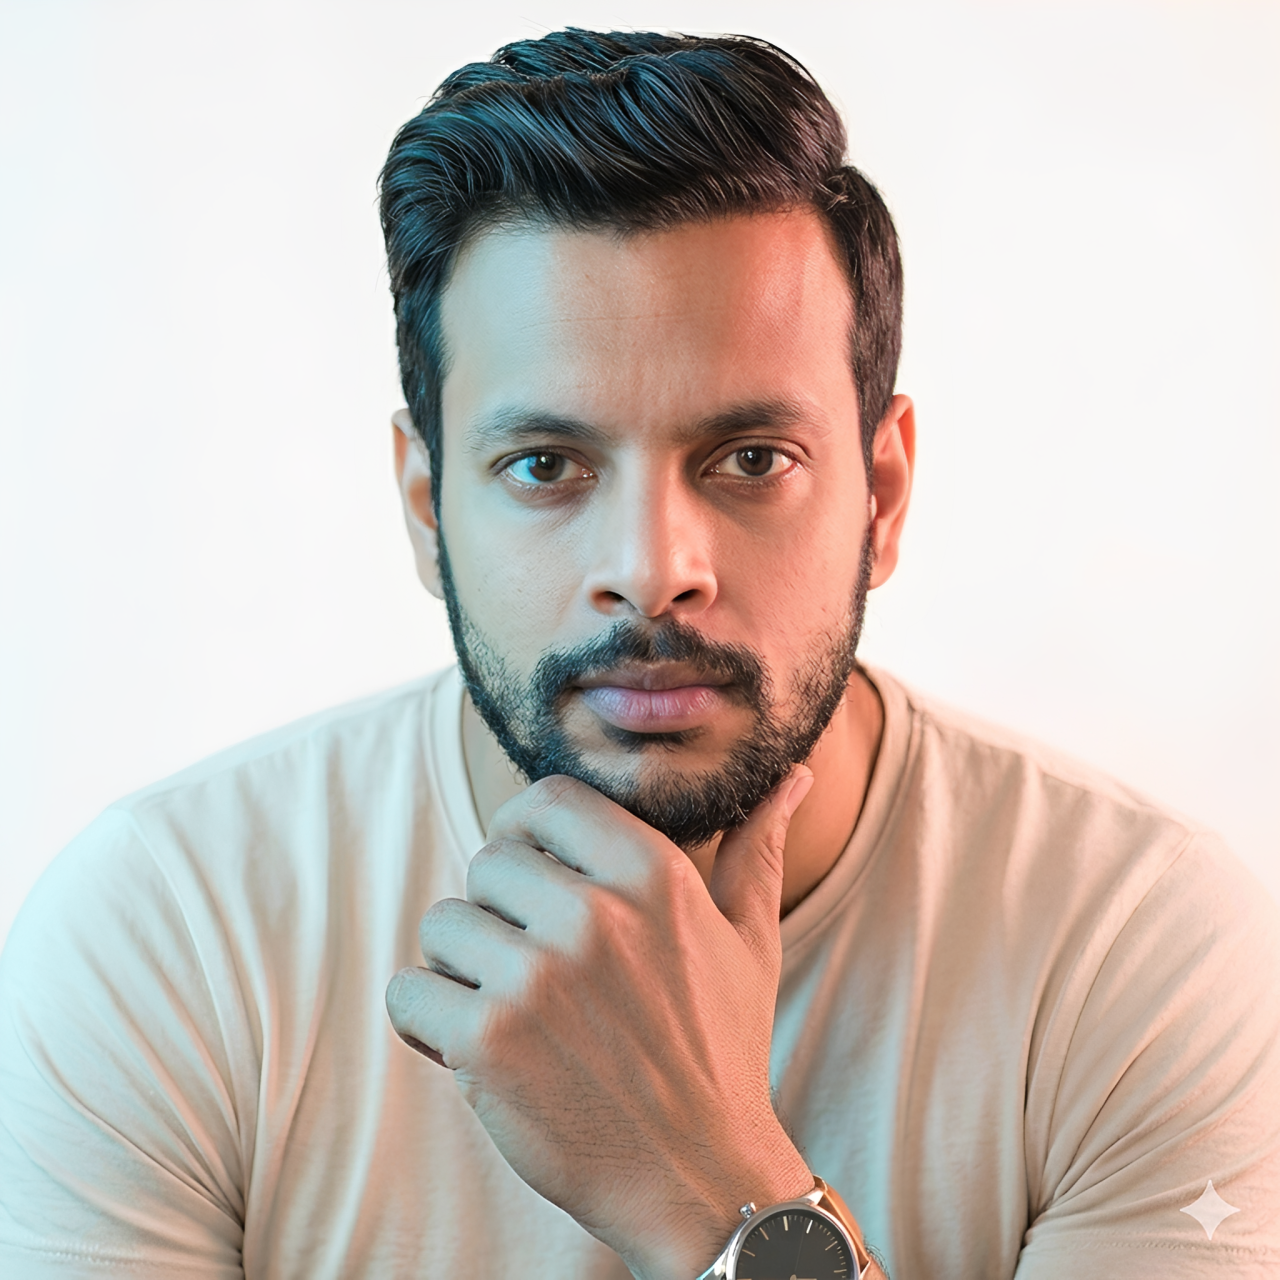
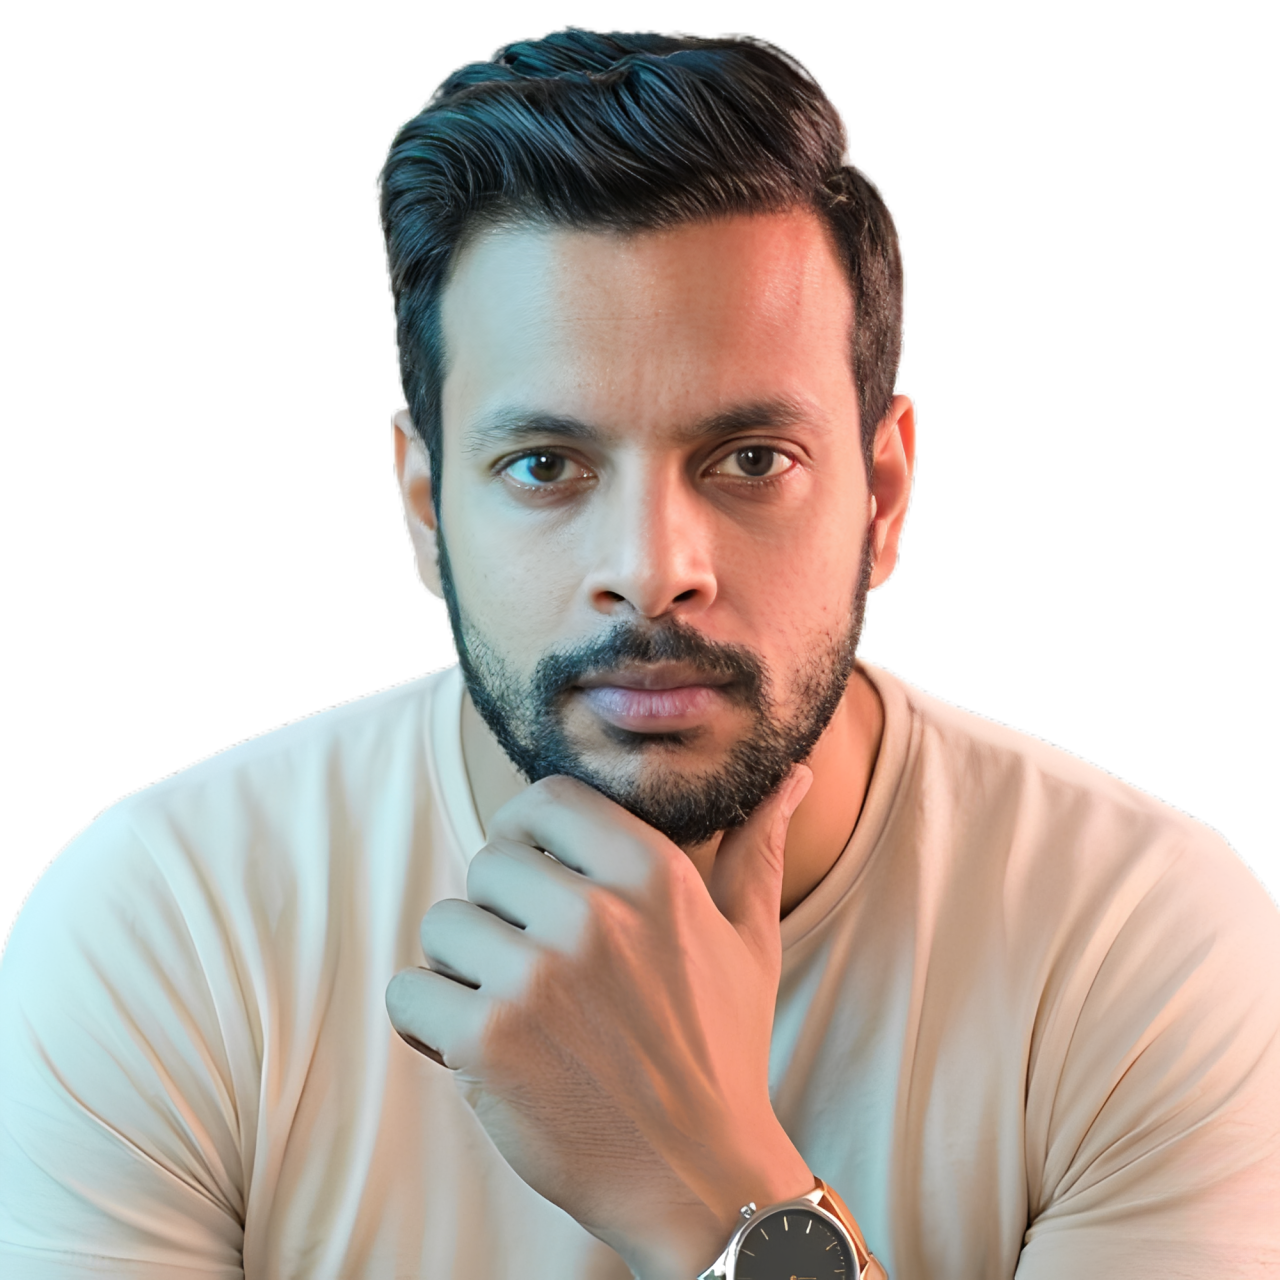
Hero section added to place background effect

diff --git a/src/app/components/Hero.tsx b/src/app/components/Hero.tsx
@@ -1,7 +1,9 @@
-import React, { useEffect, useState } from "react";
+import React, { useEffect, useRef, useState } from "react";
 import { motion } from "motion/react";
 import { SocialLinks } from "./SocialLinks";
 import profileImg from "../../imports/profile.png";
+import profileLightImg from "../../imports/profileLight.png";
+import { useTheme } from "./ThemeContext";
 import { ImageWithFallback } from "./figma/ImageWithFallback";
 
 const Typewriter = ({
@@ -20,7 +22,6 @@ const Typewriter = ({
     let timer: NodeJS.Timeout;
 
     if (!isTyping) {
-      // Wait for the repeat interval, then reset to type again
       timer = setTimeout(() => {
         setDisplayText("");
         setIsTyping(true);
@@ -29,7 +30,6 @@ const Typewriter = ({
     }
 
     let i = 0;
-    // Initial delay before starting typing
     const startDelay = setTimeout(() => {
       timer = setInterval(() => {
         if (i < text.length) {
@@ -40,7 +40,7 @@ const Typewriter = ({
           setIsTyping(false);
         }
       }, 100);
-    }, delay * 1000); // converting delay to ms
+    }, delay * 1000);
 
     return () => {
       clearTimeout(startDelay);
@@ -65,14 +65,101 @@ const Typewriter = ({
 };
 
 export function Hero() {
+  const { isDark } = useTheme();
+  const heroImage = isDark ? profileImg : profileLightImg;
+  const canvasRef = useRef<HTMLCanvasElement | null>(null);
+  const appRef = useRef<any>(null);
+
+  useEffect(() => {
+    let mounted = true;
+
+    const randomColors = (count: number) =>
+      new Array(count).fill(0).map(
+        () =>
+          "#" +
+          Math.floor(Math.random() * 16777215)
+            .toString(16)
+            .padStart(6, "0"),
+      );
+
+    const handleBodyClick = () => {
+      const app = appRef.current;
+      if (!app?.tubes) return;
+
+      app.tubes.setColors(randomColors(3));
+      app.tubes.setLightsColors(randomColors(4));
+    };
+
+    const effectOptions = isDark
+      ? {
+          colors: ["#f967fb", "#53bc28", "#6958d5"],
+          lights: {
+            intensity: 200,
+            colors: ["#83f36e", "#fe8a2e", "#ff008a", "#60aed5"],
+          },
+          minRadius: 0.007,
+          maxRadius: 0.01,
+        }
+      : {
+          colors: ["#fae8c8", "#9dd8ff", "#d8b4fe"],
+          lights: {
+            intensity: 120,
+            colors: ["#fef3c7", "#bfdbfe", "#ede9fe", "#f8fafc"],
+          },
+          minRadius: 0.007,
+          maxRadius: 0.01,
+        };
+
+    async function initEffect() {
+      if (!canvasRef.current) return;
+
+      try {
+        const module =
+          await import(
+            "https://cdn.jsdelivr.net/npm/threejs-components@0.0.19/build/cursors/tubes1.min.js"
+          );
+        const TubesCursor = (module as any).default ?? (module as any);
+
+        if (!mounted || !TubesCursor) return;
+
+        const existingApp = appRef.current;
+        if (existingApp?.dispose) existingApp.dispose();
+        if (existingApp?.destroy) existingApp.destroy();
+
+        appRef.current = TubesCursor(canvasRef.current, {
+          tubes: effectOptions,
+        });
+
+        document.body.addEventListener("click", handleBodyClick);
+      } catch (error) {
+        console.error("Failed to load TubesCursor effect", error);
+      }
+    }
+
+    initEffect();
+
+    return () => {
+      mounted = false;
+      document.body.removeEventListener("click", handleBodyClick);
+
+      const app = appRef.current;
+      if (app?.dispose) app.dispose();
+      if (app?.destroy) app.destroy();
+    };
+  }, [isDark]);
+
   return (
     <section
       id="home"
-      className="min-h-screen flex items-center pt-16 bg-transparent transition-colors relative z-10"
+      className="relative min-h-screen flex items-center pt-16 bg-gray-50 dark:bg-gray-950 transition-colors overflow-hidden"
     >
-      <div className="max-w-7xl mx-auto px-4 sm:px-6 lg:px-8 w-full">
+      <canvas
+        ref={canvasRef}
+        className="absolute inset-0 w-full h-full pointer-events-none"
+      />
+
+      <div className="relative z-10 max-w-7xl mx-auto px-4 sm:px-6 lg:px-8 w-full">
         <div className="flex flex-col-reverse lg:flex-row items-center gap-12">
-          {/* Text Content */}
           <div className="flex-1 space-y-8 text-center lg:text-left">
             <motion.div
               initial={{ opacity: 0, y: 20 }}
@@ -114,7 +201,7 @@ export function Hero() {
             >
               <a
                 href="#projects"
-                className="px-8 py-3 rounded-full bg-blue-600 text-white font-medium hover:bg-blue-700 transition-colors shadow-lg shadow-blue-500/30"
+                className="px-8 py-3 rounded-full bg-gradient-to-r from-purple-400 to-pink-500 text-white font-medium hover:from-purple-700 hover:via-pink-600 hover:to-pink-500 transition transform hover:scale-105 shadow-lg shadow-pink-500/30 focus:outline-none focus:ring-4 focus:ring-pink-300/30 dark:focus:ring-pink-700/40"
               >
                 View Work
               </a>
@@ -128,26 +215,23 @@ export function Hero() {
             </motion.div>
           </div>
 
-          {/* Image */}
           <motion.div
             initial={{ opacity: 0, scale: 0.8 }}
             animate={{ opacity: 1, scale: 1 }}
             transition={{ duration: 0.8, ease: "easeOut" }}
             className="flex-1 flex justify-center lg:justify-end lg:items-end relative"
           >
-           <motion.div
-  animate={{ y: [0, -15, 0] }}
-  transition={{ repeat: Infinity, duration: 4, ease: "easeInOut" }}
-  className="relative w-full max-w-[800px] h-[380px] md:h-[480px] lg:h-[560px] overflow-hidden rounded-3xl"
->
-  <div className="absolute inset-0 rounded-3xl bg-[radial-gradient(circle_at_top_right,_rgba(59,130,246,0.45),transparent_25%),radial-gradient(circle_at_bottom_left,_rgba(168,85,247,0.35),transparent_25%)] blur-3xl opacity-90 pointer-events-none" />
-  <div className="absolute inset-0 rounded-3xl shadow-[0_0_120px_rgba(59,130,246,0.25),0_0_80px_rgba(168,85,247,0.2)] pointer-events-none" />
-  <ImageWithFallback
-    src={profileImg}
-    alt="Chandima"
-    className="absolute inset-0 w-full h-full object-cover"
-  />
-</motion.div>
+            <motion.div
+              animate={{ y: [0, -15, 0] }}
+              transition={{ repeat: Infinity, duration: 4, ease: "easeInOut" }}
+              className="relative w-full max-w-[800px] h-[380px] md:h-[480px] lg:h-[560px] overflow-hidden rounded-3xl"
+            >
+              <ImageWithFallback
+                src={heroImage}
+                alt="Chandima"
+                className="absolute inset-0 w-full h-full object-cover"
+              />
+            </motion.div>
           </motion.div>
         </div>
       </div>

diff --git a/src/app/components/Navbar.tsx b/src/app/components/Navbar.tsx
@@ -47,13 +47,13 @@ export function Navbar() {
           <div className="flex items-center space-x-6">
             <SocialLinks className="hidden md:flex" />
             
-            <button
+            {/* <button
               onClick={toggleTheme}
               className="p-2 rounded-full text-gray-600 dark:text-gray-400 hover:bg-gray-100 dark:hover:bg-gray-800 transition-colors"
               aria-label="Toggle theme"
             >
               {isDark ? <Sun className="w-5 h-5" /> : <Moon className="w-5 h-5" />}
-            </button>
+            </button> */}
           </div>
         </div>
       </div>

diff --git a/src/app/components/Projects.tsx b/src/app/components/Projects.tsx
@@ -81,7 +81,7 @@ export function Projects() {
                 onClick={() => setActiveCategory(category)}
                 className={`px-5 py-2.5 rounded-full text-sm font-medium transition-all ${
                   activeCategory === category 
-                    ? 'bg-blue-600 text-white shadow-lg shadow-blue-500/30' 
+                    ? 'bg-gradient-to-r from-purple-400 to-pink-500 text-white shadow-lg shadow-blue-500/30' 
                     : 'bg-white/50 dark:bg-gray-800/50 backdrop-blur-sm text-gray-600 dark:text-gray-300 hover:bg-white dark:hover:bg-gray-700 border border-gray-200 dark:border-gray-700'
                 }`}
               >